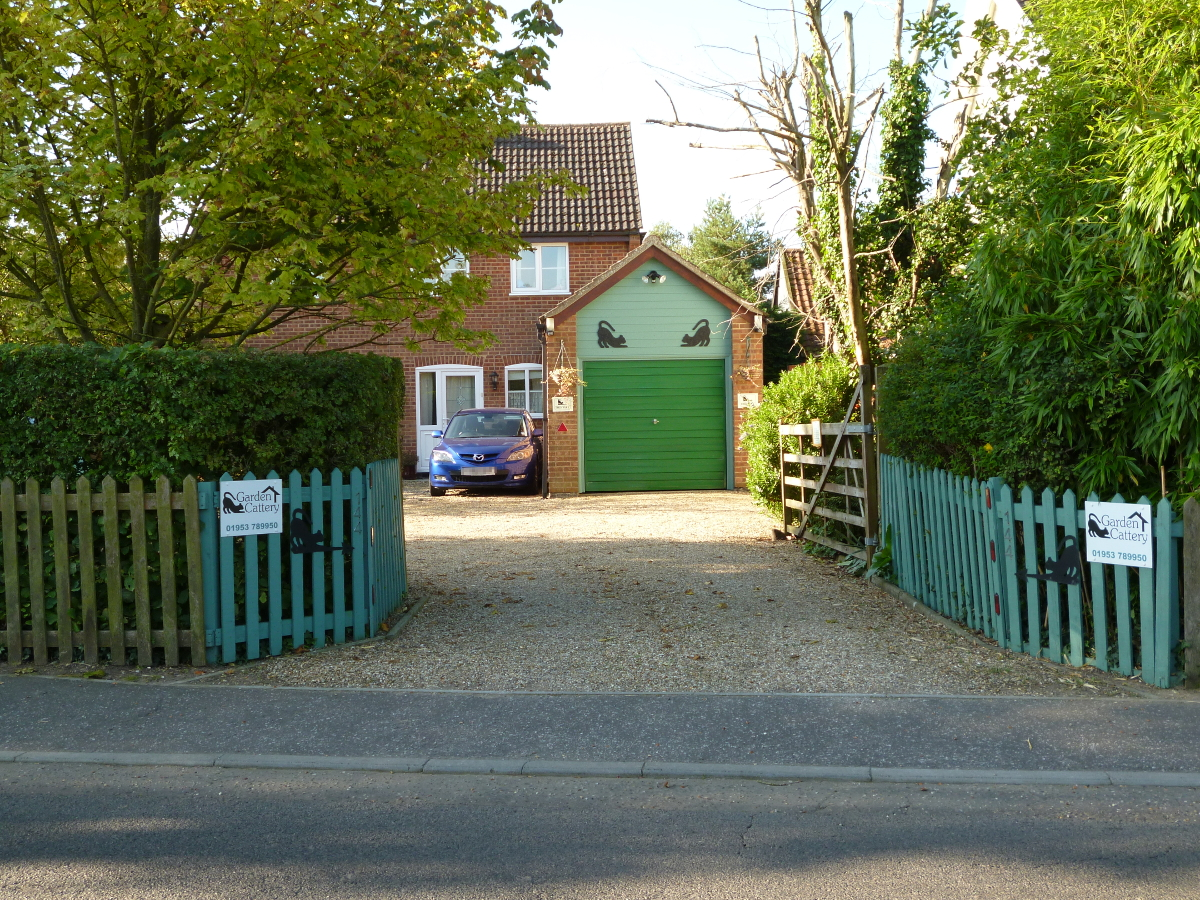
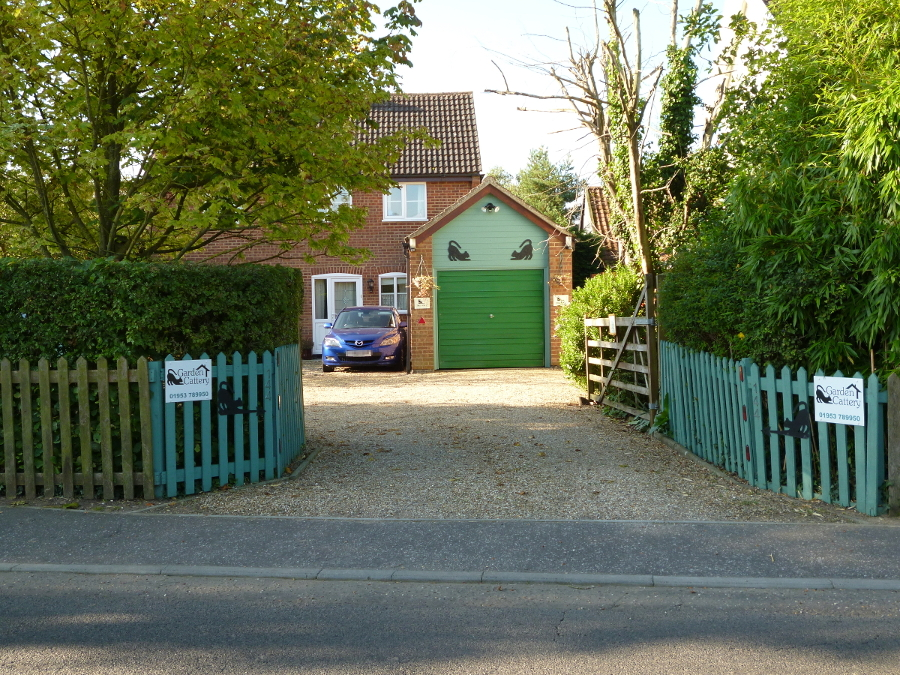
Images don't need to be so big

diff --git a/contact.html b/contact.html
@@ -49,8 +49,10 @@ title: Garden Cattery - Your cat's home away from home
     </div>
 </div>
 <div class="row-fluid">
+	<h2>Parking</h2>
+</div>
+<div class="row-fluid">
 	<div class="span4">
-        <h2>Parking</h2>
         <p class="normaltextnotjustify">
             We have ample parking.
         </p>
